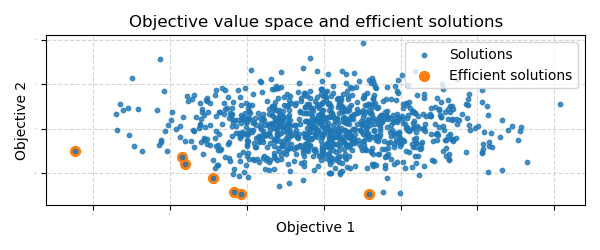
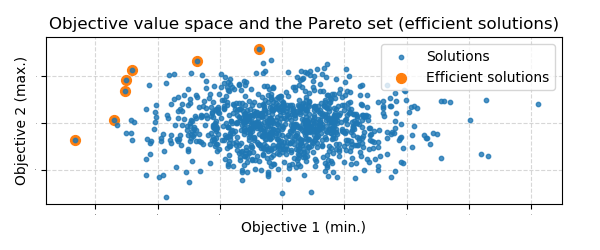
updated README and scripts

diff --git a/scripts/examples.py b/scripts/examples.py
@@ -1,143 +1,146 @@
-# ==========================================================================================
-# =============================== EXAMPLE 1: HOTELS ========================================
-# ==========================================================================================
-
-from paretoset import paretoset
-import pandas as pd
-
-hotels = pd.DataFrame({"price": [50, 53, 62, 87, 83, 39, 60, 44], "distance_to_beach": [13, 21, 19, 13, 5, 22, 22, 25]})
-mask = paretoset(hotels, sense=["min", "min"])
-skyline_hotels = hotels[mask]
-
-
-# ==================================================
-import matplotlib.pyplot as plt
-
-plt.figure(figsize=(6, 2.5))
-
-plt.title("Skyline hotels (Pareto-efficient hotels)")
-
-plt.scatter(hotels["price"], hotels["distance_to_beach"], zorder=10, label="All hotels", s=50, alpha=0.8)
-
-plt.scatter(
-    skyline_hotels["price"], skyline_hotels["distance_to_beach"], zorder=5, label="Skyline hotels", s=150, alpha=1
-)
-
-
-plt.legend()
-plt.xlim([0, 100])
-plt.ylim([0, 30])
-plt.xlabel("Price")
-plt.ylabel("Distance to the beach")
-plt.grid(True, alpha=0.5, ls="--", zorder=0)
-plt.tight_layout()
-plt.savefig("example_hotels.png", dpi=100)
-plt.show()
-
-
-# ==========================================================================================
-# =============================== EXAMPLE 2: SALESPEOPLE ===================================
-# ==========================================================================================
-
-from paretoset import paretoset
-import pandas as pd
-
-salespeople = pd.DataFrame(
-    {
-        "salary": [94, 107, 67, 87, 153, 62, 43, 115, 78, 77, 119, 127],
-        "sales": [123, 72, 80, 40, 64, 104, 106, 135, 61, 81, 162, 60],
-        "department": ["c", "c", "c", "b", "b", "a", "a", "c", "b", "a", "b", "a"],
-    }
-)
-mask = paretoset(salespeople, sense=["min", "max", "diff"])
-top_performers = salespeople[mask]
-
-
-# ==================================================
-import matplotlib.pyplot as plt
-
-plt.figure(figsize=(7, 2.5))
-# plt.suptitle("Salespeople eligible for a raise (high sales, low salary)", y=1.00)
-
-salespeople_by_dept = salespeople.groupby("department")
-performers_by_dept = top_performers.groupby("department")
-
-subplot = 1
-for (group_salespeople, group_performers) in zip(salespeople_by_dept, performers_by_dept):
-    plt.subplot(1, 3, subplot)
-
-    department, group_salespeople = group_salespeople
-    _, group_performers = group_performers
-
-    plt.title(f"Department '{department}'")
+if __name__ == "__main__":
+        
+    
+    # ==========================================================================================
+    # =============================== EXAMPLE 1: HOTELS ========================================
+    # ==========================================================================================
+    
+    from paretoset import paretoset
+    import pandas as pd
+    
+    hotels = pd.DataFrame({"price": [50, 53, 62, 87, 83, 39, 60, 44], "distance_to_beach": [13, 21, 19, 13, 5, 22, 22, 25]})
+    mask = paretoset(hotels, sense=["min", "min"])
+    skyline_hotels = hotels[mask]
+    
+    
+    # ==================================================
+    import matplotlib.pyplot as plt
+    
+    plt.figure(figsize=(6, 2.5))
+    
+    plt.title("Hotels in the Pareto set")
+    
+    plt.scatter(hotels["price"], hotels["distance_to_beach"], zorder=10, label="All hotels", s=50, alpha=0.8)
+    
     plt.scatter(
-        group_salespeople["salary"], group_salespeople["sales"], zorder=10, label="Salespeople", s=50, alpha=0.8
+        skyline_hotels["price"], skyline_hotels["distance_to_beach"], zorder=5, label="Skyline hotels", s=150, alpha=1
     )
-
-    plt.scatter(group_performers["salary"], group_performers["sales"], zorder=4, label="Top performers", s=150, alpha=1)
-
-    plt.xlabel("Salary")
-    if subplot == 1:
-        plt.ylabel("Sales")
-        plt.legend()
+    
+    
+    plt.legend()
+    plt.xlim([0, 100])
+    plt.ylim([0, 30])
+    plt.xlabel("Price")
+    plt.ylabel("Distance to beach")
     plt.grid(True, alpha=0.5, ls="--", zorder=0)
-    plt.xlim([0, 200])
-    plt.ylim([0, 200])
-    plt.subplots_adjust(top=0.5)
-    subplot += 1
-
-plt.tight_layout()
-plt.savefig("example_salespeople.png", dpi=100)
-plt.show()
-
-
-# ==========================================================================================
-# =============================== EXAMPLE 2: SALESPEOPLE ===================================
-# ==========================================================================================
-
-from paretoset import paretoset
-import numpy as np
-from collections import namedtuple
-
-np.random.seed(42)
-
-# Create Solution objects holding the problem solution and objective values
-Solution = namedtuple("Solution", ["solution", "objective_values"])
-solutions = [Solution(solution=object, objective_values=np.random.randn(2)) for _ in range(999)]
-
-# Create an array of shape (solutions, objectives) and compute the non-dominated set
-objective_values_array = np.vstack([s.objective_values for s in solutions])
-mask = paretoset(objective_values_array, sense=[min, min])
-
-# Filter the list of solutions, keeping only the non-dominated solutions
-efficient_solutions = [solution for (solution, m) in zip(solutions, mask) if m]
-
-
-# ==================================================
-import matplotlib.pyplot as plt
-
-plt.figure(figsize=(6, 2.5))
-
-plt.title("Objective value space and efficient solutions")
-
-plt.scatter(objective_values_array[:, 0], objective_values_array[:, 1], zorder=10, label="Solutions", s=10, alpha=0.8)
-
-plt.scatter(
-    objective_values_array[mask, 0],
-    objective_values_array[mask, 1],
-    zorder=5,
-    label="Efficient solutions",
-    s=50,
-    alpha=1,
-)
-
-
-plt.legend(loc="upper right").set_zorder(50)
-plt.xlabel("Objective 1")
-plt.ylabel("Objective 2")
-plt.xticks(fontsize=0)
-plt.yticks(fontsize=0)
-plt.grid(True, alpha=0.5, ls="--", zorder=0)
-plt.tight_layout()
-plt.savefig("example_optimization.png", dpi=100)
-plt.show()
+    plt.tight_layout()
+    plt.savefig("example_hotels.png", dpi=100)
+    plt.show()
+    
+    
+    # ==========================================================================================
+    # =============================== EXAMPLE 2: SALESPEOPLE ===================================
+    # ==========================================================================================
+    
+    from paretoset import paretoset
+    import pandas as pd
+    
+    salespeople = pd.DataFrame(
+        {
+            "salary": [94, 107, 67, 87, 153, 62, 43, 115, 78, 77, 119, 127],
+            "sales": [123, 72, 80, 40, 64, 104, 106, 135, 61, 81, 162, 60],
+            "department": ["c", "c", "c", "b", "b", "a", "a", "c", "b", "a", "b", "a"],
+        }
+    )
+    mask = paretoset(salespeople, sense=["min", "max", "diff"])
+    top_performers = salespeople[mask]
+    
+    
+    # ==================================================
+    import matplotlib.pyplot as plt
+    
+    plt.figure(figsize=(7, 2.5))
+    # plt.suptitle("Salespeople eligible for a raise (high sales, low salary)", y=1.00)
+    
+    salespeople_by_dept = salespeople.groupby("department")
+    performers_by_dept = top_performers.groupby("department")
+    
+    subplot = 1
+    for (group_salespeople, group_performers) in zip(salespeople_by_dept, performers_by_dept):
+        plt.subplot(1, 3, subplot)
+    
+        department, group_salespeople = group_salespeople
+        _, group_performers = group_performers
+    
+        plt.title(f"Department '{department}'")
+        plt.scatter(
+            group_salespeople["salary"], group_salespeople["sales"], zorder=10, label="Salespeople", s=50, alpha=0.8
+        )
+    
+        plt.scatter(group_performers["salary"], group_performers["sales"], zorder=4, label="Top performers", s=150, alpha=1)
+    
+        plt.xlabel("Salary")
+        if subplot == 1:
+            plt.ylabel("Sales")
+            plt.legend()
+        plt.grid(True, alpha=0.5, ls="--", zorder=0)
+        plt.xlim([0, 200])
+        plt.ylim([0, 200])
+        plt.subplots_adjust(top=0.5)
+        subplot += 1
+    
+    plt.tight_layout()
+    plt.savefig("example_salespeople.png", dpi=100)
+    plt.show()
+    
+    
+    # ==========================================================================================
+    # =============================== EXAMPLE 3: OPTIMIZATION ==================================
+    # ==========================================================================================
+    
+    from paretoset import paretoset
+    import numpy as np
+    from collections import namedtuple
+    
+    np.random.seed(2)
+    
+    # Create Solution objects holding the problem solution and objective values
+    Solution = namedtuple("Solution", ["solution", "objective_values"])
+    solutions = [Solution(solution=object, objective_values=np.random.randn(2)) for _ in range(999)]
+    
+    # Create an array of shape (solutions, objectives) and compute the non-dominated set
+    objective_values_array = np.vstack([s.objective_values for s in solutions])
+    mask = paretoset(objective_values_array, sense=[min, max])
+    
+    # Filter the list of solutions, keeping only the non-dominated solutions
+    efficient_solutions = [solution for (solution, m) in zip(solutions, mask) if m]
+    
+    
+    # ==================================================
+    import matplotlib.pyplot as plt
+    
+    plt.figure(figsize=(6, 2.5))
+    
+    plt.title("Objective value space and the Pareto set (efficient solutions)")
+    
+    plt.scatter(objective_values_array[:, 0], objective_values_array[:, 1], zorder=10, label="Solutions", s=10, alpha=0.8)
+    
+    plt.scatter(
+        objective_values_array[mask, 0],
+        objective_values_array[mask, 1],
+        zorder=5,
+        label="Efficient solutions",
+        s=50,
+        alpha=1,
+    )
+    
+    
+    plt.legend(loc="upper right").set_zorder(50)
+    plt.xlabel("Objective 1 (min.)")
+    plt.ylabel("Objective 2 (max.)")
+    plt.xticks(fontsize=0)
+    plt.yticks(fontsize=0)
+    plt.grid(True, alpha=0.5, ls="--", zorder=0)
+    plt.tight_layout()
+    plt.savefig("example_optimization.png", dpi=100)
+    plt.show()

diff --git a/scripts/timing.py b/scripts/timing.py
@@ -47,12 +47,12 @@ def get_times(observations, cost_func, algorithm, num_runs):
 
 
 observations = list(range(1, 10))
-num_runs = 2
+num_runs = 5
 
 plt.figure(figsize=(9, 2.5))
 
 objectives = 3
-plt.subplot(1, 2, 1)
+ax1 = plt.subplot(121)
 max_times = 0
 plt.title("Pareto set with {} objectives".format(objectives, num_runs))
 times = list(get_times(observations, generate_problem_randn, paretoset, num_runs))
@@ -73,7 +73,7 @@ plt.xticks(observations[:max_times], ["$10^{}$".format(i) for i in observations[
 
 
 objectives = 9
-plt.subplot(1, 2, 2)
+ax2 = plt.subplot(122, sharey=ax1)
 max_times = 0
 plt.title("Pareto set with {} objectives".format(objectives, num_runs))
 times = list(get_times(observations, generate_problem_randn, paretoset, num_runs))
@@ -93,7 +93,7 @@ plt.xticks(observations[:max_times], ["$10^{}$".format(i) for i in observations[
 
 
 plt.tight_layout()
-plt.savefig("times_pareto_front.png".format(objectives), dpi=100)
+plt.savefig("times_pareto_set.png".format(objectives), dpi=100)
 plt.show()
 
 # =================================================================================
@@ -102,7 +102,7 @@ from paretoset.algorithms_numpy import pareto_rank_NSGA2, pareto_rank_naive
 plt.figure(figsize=(9, 2.5))
 
 objectives = 3
-plt.subplot(1, 2, 1)
+ax1 = plt.subplot(121)
 max_times = 0
 plt.title("pareto_rank_NSGA2 with {} objectives".format(objectives, num_runs))
 times = list(get_times(observations, generate_problem_randn, pareto_rank_NSGA2, num_runs))
@@ -123,7 +123,7 @@ plt.xticks(observations[:max_times], ["$10^{}$".format(i) for i in observations[
 
 
 objectives = 3
-plt.subplot(1, 2, 2)
+ax2 = plt.subplot(122, sharey=ax1)
 max_times = 0
 plt.title("pareto_rank_naive with {} objectives".format(objectives, num_runs))
 times = list(get_times(observations, generate_problem_randn, pareto_rank_naive, num_runs))

diff --git a/README.md b/README.md
@@ -10,7 +10,9 @@ There are two common ways to optimize a function of several variables:
 The disadvantage of scalarization is that objectives must be weighted a priori.
 The Pareto set contains every value that could be obtained by scalarization, but also values possibly not found by scalarization.
 
-## Example - Skyline queries for data analysis and insight
+## Examples - Skyline queries for data analysis and insight
+
+### Hotels that are cheap and close to the beach
 
 In the database context, the Pareto set is called the *skyline* and computing the Pareto set is called a *skyline query*.
 The folllowing example is from the paper "*The Skyline Operator*" by Börzsönyi et al.
@@ -19,7 +21,7 @@ The folllowing example is from the paper "*The Skyline Operator*" by Börzsönyi
   These two goals are complementary as the hotels near the beach tend to be more expensive. 
   The database system is unable to decide which hotel is best for you, but it can at least present you all interesting hotels. 
   Interesting are all hotels that are not worse than any other hotel in both dimensions. 
-  You can now your final decision, weighing your personal preferences for price and distance to the beach.
+  You can now make your final decision, weighing your personal preferences for price and distance to the beach.
 
 Here's an example showing hotels in the Pareto set.
 
@@ -34,6 +36,8 @@ paretoset_hotels = hotels[mask]
 ```
 
 ![](https://github.com/tommyod/paretoset/blob/master/scripts/example_hotels.png)
+
+### Top performing salespeople
 
 Suppose you wish to query a database for salespeople that might be eligible for a raise.
 To find top performers (low salary, but high sales) for every department:
@@ -100,7 +104,7 @@ Your submitted code must be PEP8 compliant, and all tests must pass.
 The graph below shows how long it takes to compute the Pareto set.
 Gaussian data has only a few observations in the Pareto set, while uniformly distributed data on a simplex has every observations in the Pareto set.
 
-![](https://github.com/tommyod/paretoset/blob/master/scripts/times_objectives.png)
+![](https://github.com/tommyod/paretoset/blob/master/scripts/times_pareto_set.png)
 
 
 ## References
